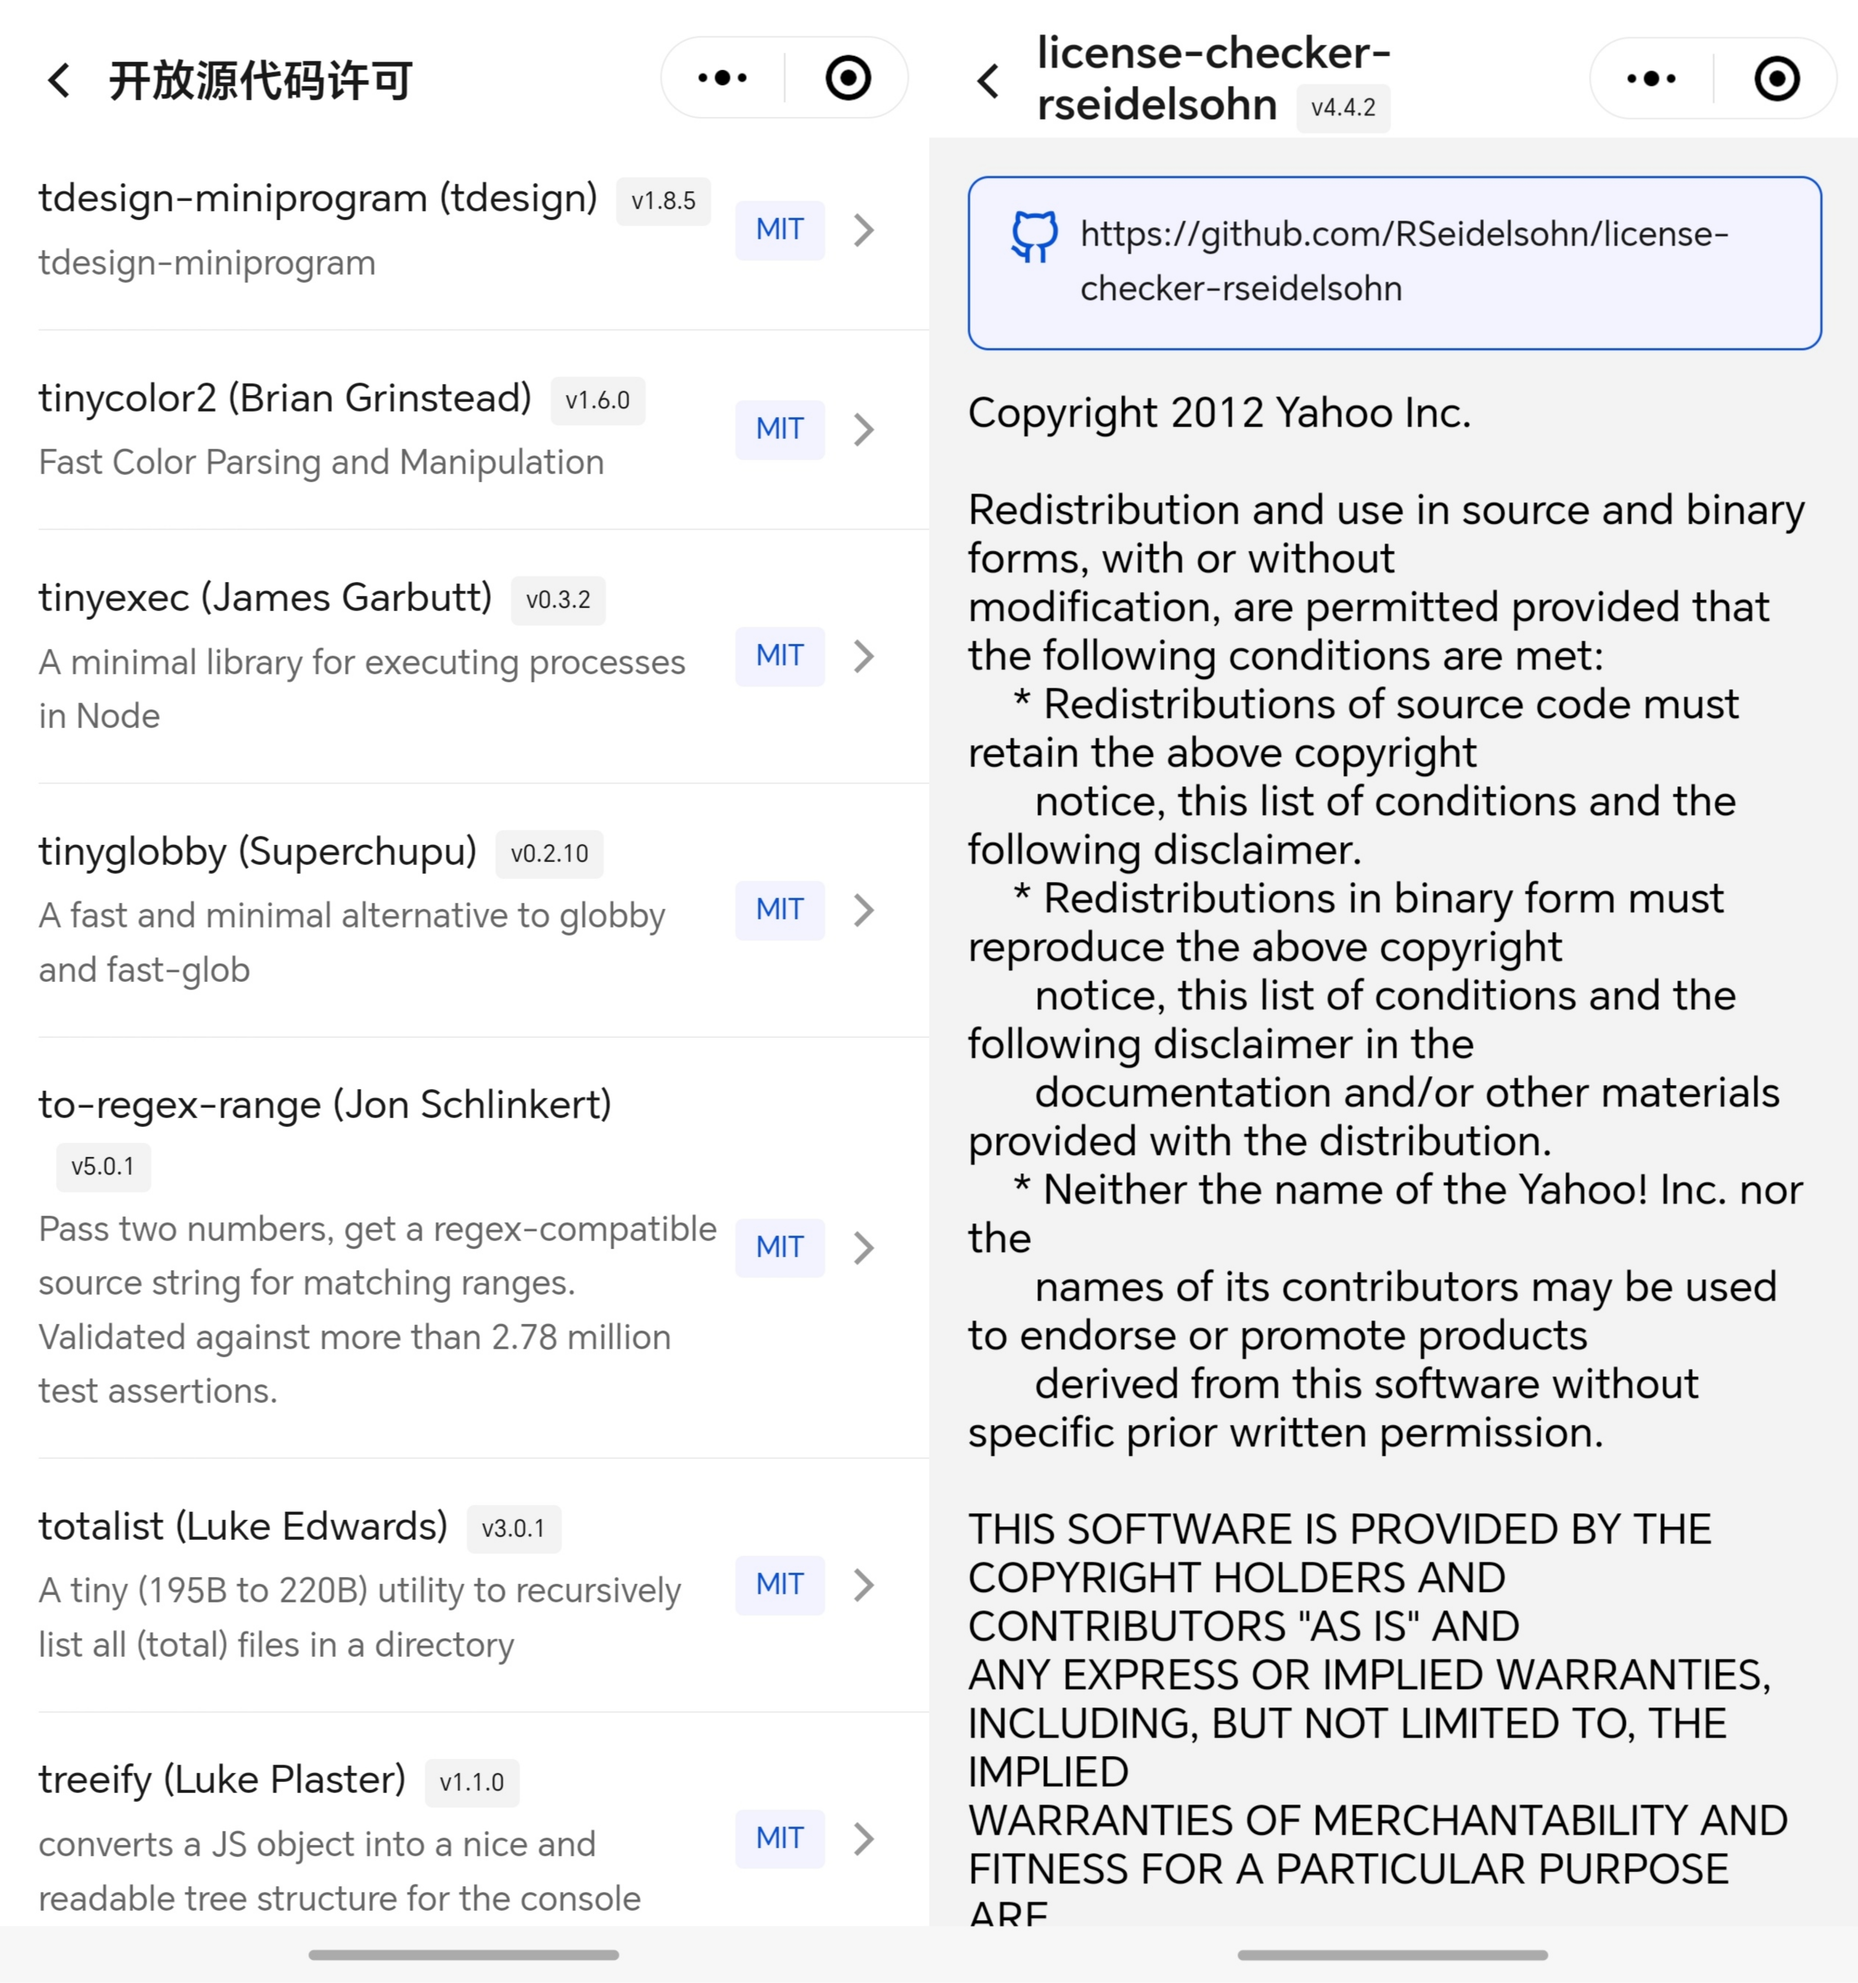
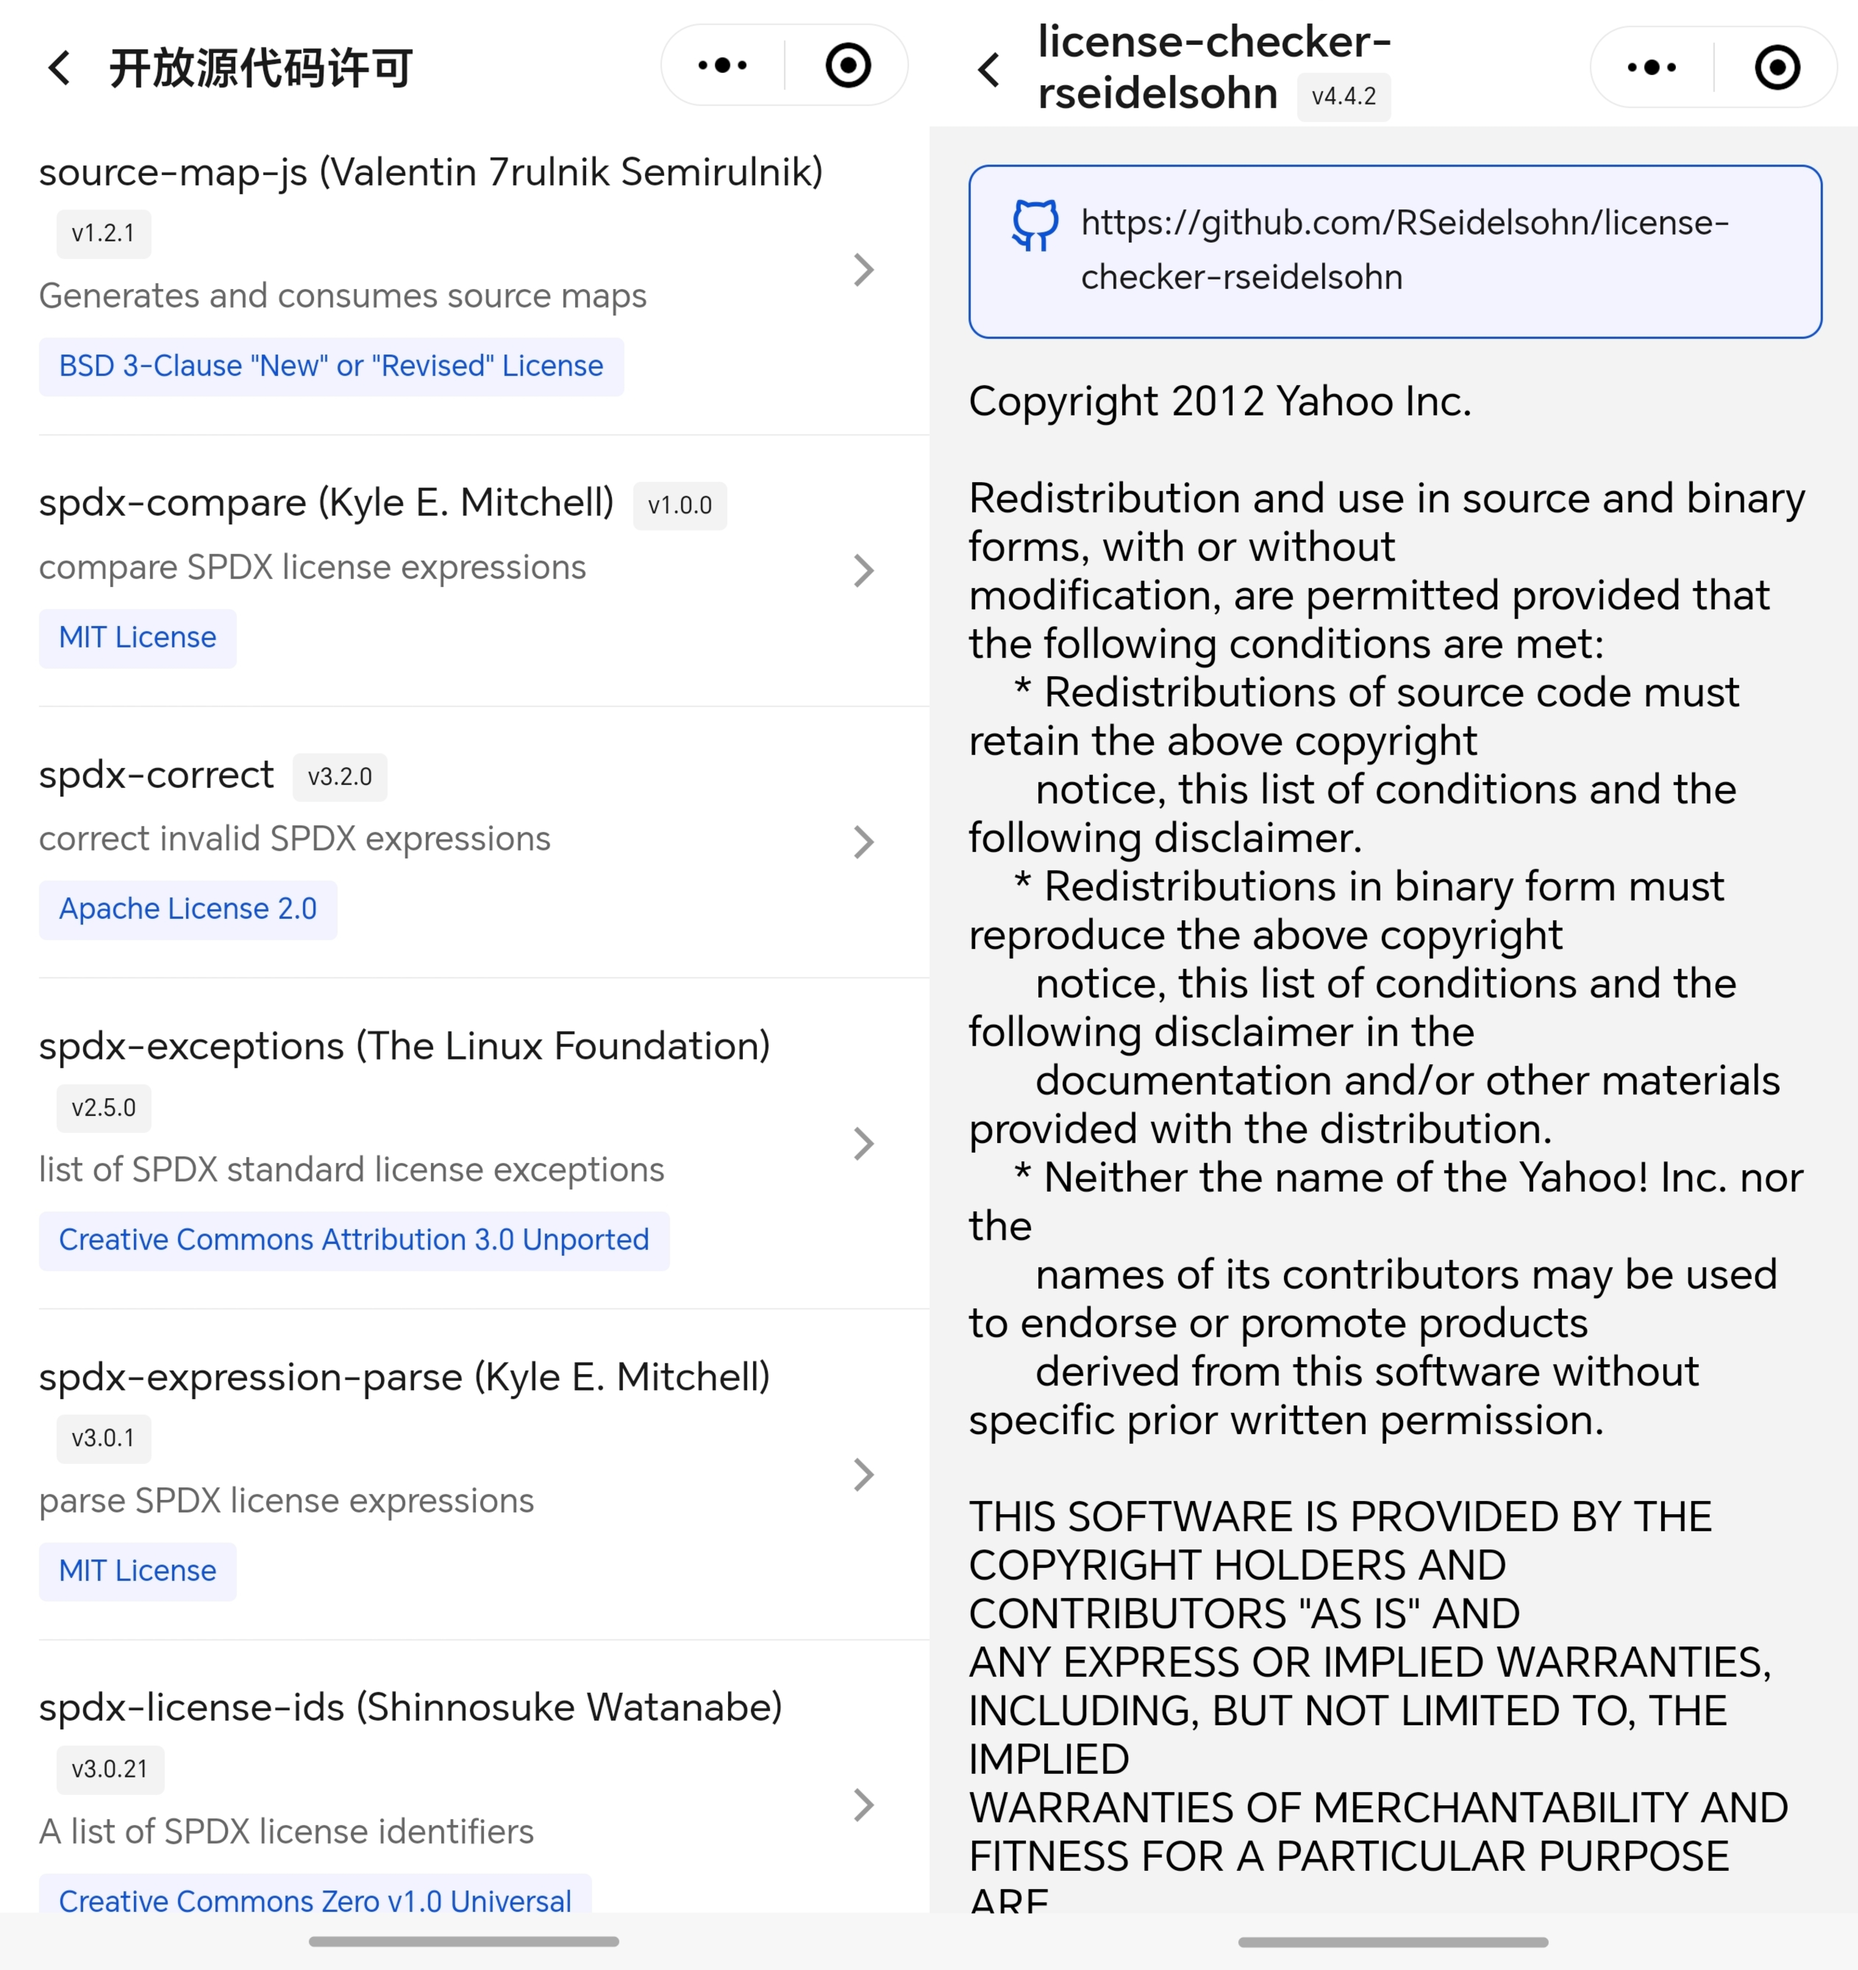
feat(OSSLicensesBuilder): 添加 SPDX 许可证名称
- 引入 spdx-license-list 依赖
- 在 JSON 数据中添加 licenseName 字段，存储 SPDX 许可证名称
- 更新 README.md，说明新增的许可证名称字段
- 修改示例代码，使用 licenseName 替代 licenses

diff --git a/source-code/OSSLicensesBuilder.js b/source-code/OSSLicensesBuilder.js
@@ -28,6 +28,7 @@ const path = require('path');
 const crypto = require('crypto');
 const uglifyJS = require('uglify-js');
 const JSON5 = require('json5');
+const spdx = require('spdx-license-list');
 
 function runCommand(command, args) {
     try {
@@ -74,6 +75,9 @@ function buildLicenses(outputFile, customFormat, customPath, startPath = '') {
                 delete jsonDataWithoutLicenseText[key].licenseText;
                 jsonDataWithoutLicenseText[key].licenseTextHash = sha256Hash;
             } else jsonDataWithoutLicenseText[key].licenseTextHash = "";
+            const spdxId = value.licenses
+            const spdxItem = spdx[spdxId]
+            jsonDataWithoutLicenseText[key].licenseName = (spdxItem) ? spdxItem.name : spdxId
         }
         const jsContentWithoutLicenseText = `module.exports = ${JSON5.stringify(jsonDataWithoutLicenseText, null, 2)};`;
         const minifiedResultWithoutLicenseText = uglifyJS.minify(jsContentWithoutLicenseText, {

diff --git a/README.md b/README.md
@@ -28,24 +28,24 @@
 
 首先需确保本地存在 Node.js 和 npm 环境。若还未安装，请前往 [Node.js](https://nodejs.org/zh-cn/download/) 官网按指导进行安装，这里不再赘述。下文假定您已安装 Node.js 和 npm。
 
-在原生微信小程序工程根目录（即微信小程序 `project.config.json` 所在目录）中打开终端，安装 `license-checker-rseidelsohn`、`shelljs`、`uglify-js` 和 `json5` 依赖
+在原生微信小程序工程根目录（即微信小程序 `project.config.json` 所在目录）中打开终端，安装 `license-checker-rseidelsohn`、`shelljs`、`uglify-js`、`json5` 和 `spdx-license-list` 依赖
 
 > npm
 
 ```sh
-npm install license-checker-rseidelsohn shelljs uglify-js json5 --save-dev
+npm install license-checker-rseidelsohn shelljs uglify-js json5 spdx-license-list --save-dev
 ```
 
 > Yarn
 
 ```sh
-yarn add license-checker-rseidelsohn shelljs uglify-js json5 --dev
+yarn add license-checker-rseidelsohn shelljs uglify-js json5 spdx-license-list --dev
 ```
 
 > pnpm
 
 ```sh
-pnpm add license-checker-rseidelsohn shelljs uglify-js json5 --dev
+pnpm add license-checker-rseidelsohn shelljs uglify-js json5 spdx-license-list --dev
 ```
 
 ## 快速开始
@@ -179,7 +179,7 @@ npm run build-oss-licenses-dist
 - `licenseFile`：此依赖项在本地计算机中的开源许可文件所在的本地路径字符串。由于对用户端来说本地路径没有什么实质作用，且考虑到微信小程序文件总大小限制，不建议生成此项。
 - `path`：同上，不建议生成此项。
 - `licenseModified`
-- `licenses`：开源许可名称
+- `licenses`：开源许可 SPDX ID。`OSSLicensesBuilder.js` 会根据 SPDX ID 一并生成 `licenseName` 字段，该字段的值为开源许可名称（SPDX Name）。
 - `licenseText`：开源许可全文。为缩减文件大小，防止文件内存在过多重复的许可证文本，脚本会将此字段改为 `licenseTextHash` 字段，该字段的值为许可证文本的 SHA256 杂凑值，可在 `OSSLicensesDistText.js` 中作为键找到。
 - `name`：依赖项名称
 - `publisher`：依赖项发布者
@@ -264,8 +264,9 @@ Page({
     </view>
     
     <!-- 依赖项开源许可名称 -->
-    <t-tag class="ml-16rpx" size="medium" slot="note" theme="primary" variant="light">
-        {{item.licenses}}
+    <!-- 如果需要界面展示更简短的名称（SPDX ID），可将 `item.licenseName` 改为 `item.licenses` -->
+    <t-tag class="mt-12rpx" size="medium" slot="description" theme="primary" variant="light">
+        {{item.licenseName}}
     </t-tag>
 </t-cell>
 ```
@@ -278,6 +279,7 @@ Page({
 - [ShellJS](https://github.com/shelljs/shelljs)，Licensed under [BSD 3-Clause License](https://github.com/shelljs/shelljs/blob/master/LICENSE)
 - [UglifyJS](https://github.com/mishoo/UglifyJS)，Licensed under [BSD License](https://github.com/mishoo/UglifyJS/blob/master/LICENSE)
 - [JSON5](https://json5.org/)，Licensed under [MIT License](https://json5.org/LICENSE.md)
+- [List of SPDX licenses（Sindre Sorhus）](https://github.com/sindresorhus/spdx-license-list)，Licensed under [CC0 1.0 Universal License](https://github.com/sindresorhus/spdx-license-list/blob/main/license)
 - [TDesign WeChat MiniProgram（Tencent）](https://github.com/Tencent/tdesign-miniprogram)，Licensed under [MIT License](https://github.com/Tencent/tdesign-miniprogram/blob/develop/LICENSE)
 - [Node.js®（OpenJS Foundation）](https://nodejs.org/)，Licensed under [MIT License](https://github.com/nodejs/node/blob/main/LICENSE)
 - [npm](https://www.npmjs.com/)，Licensed under [Artistic License 2.0](https://github.com/npm/cli/blob/latest/LICENSE)
